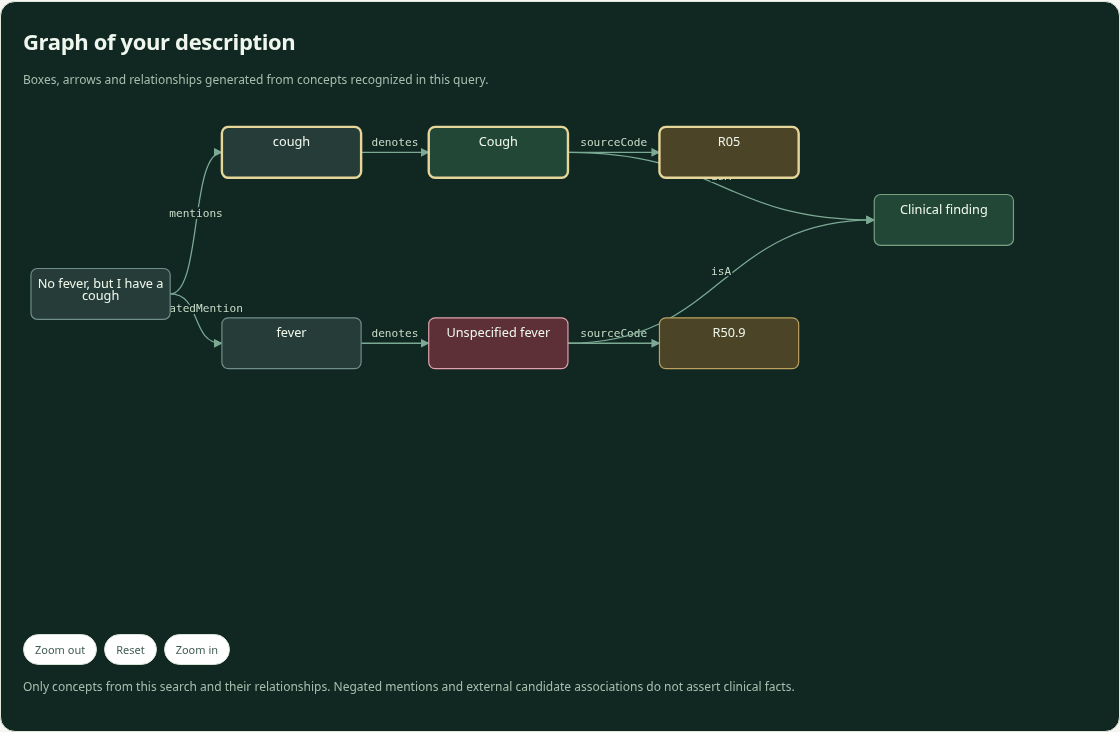
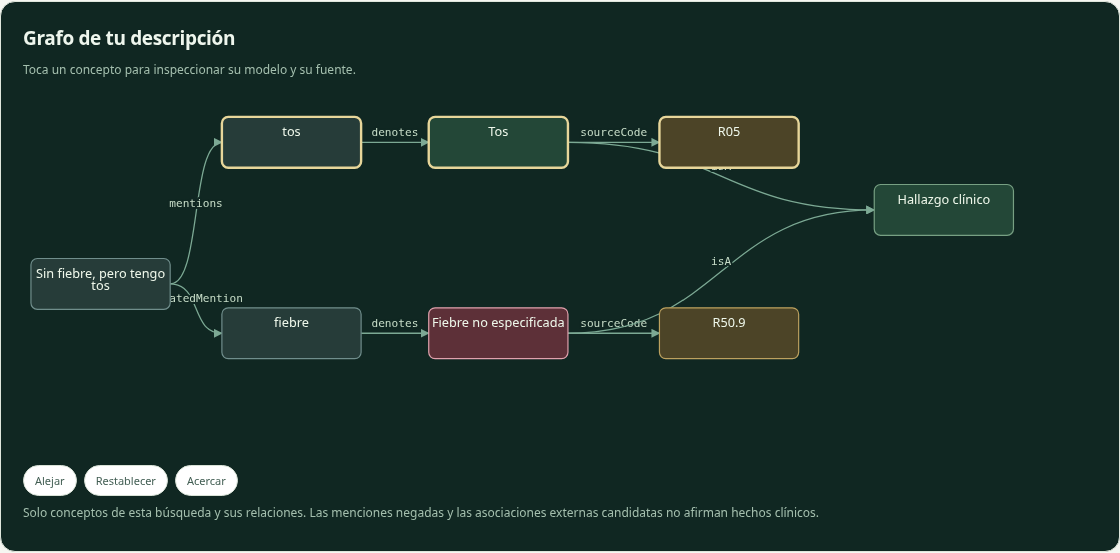
Make portfolio graph-first with an immediate example and compact mobile layout

diff --git a/web/knowledge-graph.ts b/web/knowledge-graph.ts
@@ -6,7 +6,7 @@ let previousQuery='';
 export function renderKnowledgeGraph(concepts:Concept[],lang:Language,selected:string,onSelect:(id:string)=>void,activeIds:string[]=[],query=''){
  const host=document.getElementById('primary-graph')!;host.replaceChildren();
  if(query!==previousQuery){previousQuery=query;zoom=1;}
- const words=lang==='es'?{title:'Grafo de tu descripción',intro:'Cuadros, flechas y relaciones generados con los conceptos reconocidos en esta consulta.',reset:'Restablecer',up:'Acercar',down:'Alejar',note:'Solo conceptos de esta búsqueda y sus relaciones. Las menciones negadas y las asociaciones externas candidatas no afirman hechos clínicos.'}:{title:'Graph of your description',intro:'Boxes, arrows and relationships generated from concepts recognized in this query.',reset:'Reset',up:'Zoom in',down:'Zoom out',note:'Only concepts from this search and their relationships. Negated mentions and external candidate associations do not assert clinical facts.'};
+ const words=lang==='es'?{title:'Grafo de tu descripción',intro:'Toca un concepto para inspeccionar su modelo y su fuente.',reset:'Restablecer',up:'Acercar',down:'Alejar',note:'Solo conceptos de esta búsqueda y sus relaciones. Las menciones negadas y las asociaciones externas candidatas no afirman hechos clínicos.'}:{title:'Graph of your description',intro:'Tap a concept to inspect its model and source.',reset:'Reset',up:'Zoom in',down:'Zoom out',note:'Only concepts from this search and their relationships. Negated mentions and external candidate associations do not assert clinical facts.'};
  const title=document.createElement('h2');title.textContent=words.title;host.append(title);
  const intro=document.createElement('p');intro.className='hint';intro.textContent=words.intro;host.append(intro);
  const active=concepts.filter(c=>activeIds.includes(c.id));
@@ -35,15 +35,29 @@ export function renderKnowledgeGraph(concepts:Concept[],lang:Language,selected:s
    else {const id='value_'+c.id+p.property;add(id,String(p.value),800,y+85+j*75,'attribute',p.property);edge(c.id,id,p.property);}
   }
  });
- const ns='http://www.w3.org/2000/svg';const svg=document.createElementNS(ns,'svg');const height=Math.max(650,...nodes.map(n=>n.y+100));
- svg.setAttribute('viewBox',`0 0 1350 ${height}`);svg.setAttribute('class','knowledge-svg');svg.setAttribute('role','img');svg.setAttribute('aria-label',words.title);
+ const mobile=window.innerWidth<=600;
+ if(mobile){
+  nodes.splice(nodes.findIndex(n=>n.id==='query'),1);
+  for(let i=edges.length-1;i>=0;i--)if(edges[i].a==='query')edges.splice(i,1);
+  nodes.forEach((n,i)=>{n.x=15+(i%2)*230;n.y=20+Math.floor(i/2)*110;});
+  shown.forEach((c,i)=>{
+   const y=20+i*330;
+   const place=(id:string,x:number,dy:number)=>{const n=nodes.find(n=>n.id===id);if(n){n.x=x;n.y=y+dy;}};
+   place('mention_'+c.id,15,0);place(c.id,245,0);place('code_'+c.id,245,105);
+   place(c.classId??c.parent??'',15,210);place('formula_'+c.id,245,210);
+  });
+ }
+ const width=mobile?440:1350;
+ const ns='http://www.w3.org/2000/svg';const svg=document.createElementNS(ns,'svg');const height=Math.max(mobile?200:450,...nodes.map(n=>n.y+100));
+ svg.setAttribute('viewBox',`0 0 ${width} ${height}`);svg.setAttribute('class','knowledge-svg');svg.setAttribute('role','img');svg.setAttribute('aria-label',words.title);
  const defs=document.createElementNS(ns,'defs');const marker=document.createElementNS(ns,'marker');marker.id='kg-arrow';marker.setAttribute('viewBox','0 0 10 10');marker.setAttribute('refX','9');marker.setAttribute('refY','5');marker.setAttribute('markerWidth','7');marker.setAttribute('markerHeight','7');marker.setAttribute('orient','auto-start-reverse');const arrow=document.createElementNS(ns,'path');arrow.setAttribute('d','M 0 0 L 10 5 L 0 10 z');arrow.setAttribute('fill','#7ca994');marker.append(arrow);defs.append(marker);svg.append(defs);
- const group=document.createElementNS(ns,'g');group.setAttribute('transform',`translate(${675*(1-zoom)} ${height/2*(1-zoom)}) scale(${zoom})`);svg.append(group);
+ const group=document.createElementNS(ns,'g');group.setAttribute('transform',`translate(${width/2*(1-zoom)} ${height/2*(1-zoom)}) scale(${zoom})`);svg.append(group);
  for(const e of edges){const a=nodes.find(n=>n.id===e.a),b=nodes.find(n=>n.id===e.b);if(!a||!b)continue;
   const path=document.createElementNS(ns,'path');const x1=a.x+175,y1=a.y+32,x2=b.x,y2=b.y+32;
   const backwards=x2<=x1;const control=backwards?80:Math.max(40,(x2-x1)/2);
-  path.setAttribute('d',`M ${x1} ${y1} C ${x1+control} ${y1}, ${x2-control} ${y2}, ${x2} ${y2}`);path.setAttribute('class','kg-edge'+(e.label==='candidateMatch?'?' candidate-edge':''));path.setAttribute('marker-end','url(#kg-arrow)');group.append(path);
-  const text=document.createElementNS(ns,'text');text.setAttribute('x',String((x1+x2)/2));text.setAttribute('y',String((y1+y2)/2-8));text.setAttribute('class','kg-edge-label');text.textContent=e.label;group.append(text);
+  const vertical=mobile&&Math.abs(a.y-b.y)>65;
+  path.setAttribute('d',vertical?`M ${a.x+87.5} ${a.y+64} C ${a.x+87.5} ${a.y+85}, ${b.x+87.5} ${b.y-20}, ${b.x+87.5} ${b.y}`:`M ${x1} ${y1} C ${x1+control} ${y1}, ${x2-control} ${y2}, ${x2} ${y2}`);path.setAttribute('class','kg-edge'+(e.label==='candidateMatch?'?' candidate-edge':''));path.setAttribute('marker-end','url(#kg-arrow)');group.append(path);
+  const text=document.createElementNS(ns,'text');text.setAttribute('x',String(vertical?(a.x+b.x)/2+87.5:(x1+x2)/2));text.setAttribute('y',String((y1+y2)/2-8));text.setAttribute('class','kg-edge-label');text.textContent=e.label;group.append(text);
  }
  for(const n of nodes){const g=document.createElementNS(ns,'g');g.setAttribute('transform',`translate(${n.x},${n.y})`);g.setAttribute('class','kg-node kind-'+n.kind+(n.target===selected?' kg-active':''));g.setAttribute('role','button');g.setAttribute('tabindex','0');g.setAttribute('aria-label',n.label);
   const rect=document.createElementNS(ns,'rect');rect.setAttribute('width','175');rect.setAttribute('height','64');rect.setAttribute('rx','8');g.append(rect);

diff --git a/web/style.css b/web/style.css
@@ -10,3 +10,7 @@
 .kg-node text{font-size:16px}.kg-edge-label{font-size:14px}
 .workspace{grid-template-columns:1fr}.primary-graph{margin-bottom:0}.knowledge-canvas{max-height:560px;overflow:auto}.knowledge-svg{max-height:none;min-width:1000px;min-height:0}.kg-node.kind-negated rect{fill:#5d3038;stroke:#e0a1ad}.input-panel textarea{min-height:90px}.primary-graph+.results-panel{margin-top:0}
 .interview-panel{margin-top:24px}.interview-panel:empty{display:none}.interview-answers{margin:18px 0;font-size:13px}.interview-answers>div{display:flex;align-items:center;justify-content:space-between;gap:12px;padding:8px 0;border-bottom:1px solid #e0e7dc}.interview-answers button,.interview-panel>button{border:1px solid #ccd9d0;background:#f6faf4;color:#315d4b;border-radius:6px;padding:5px 9px;font-size:12px}
+
+/* Compact, graph-first portfolio presentation. */
+header{padding:14px 24px}.hero{padding:20px 0 14px}.hero h1{font-family:inherit;font-weight:750;font-size:clamp(28px,4vw,46px);max-width:760px}.hero .tags{display:none}.input-panel{padding:18px}.input-panel .section-title{margin-bottom:12px}.input-panel textarea{min-height:64px;height:70px;padding:10px}.input-panel .hint{margin:5px 0}.input-panel label{margin-bottom:5px}.input-panel .primary{margin-top:8px;padding:9px}.examples-label{margin:12px 0 7px}.input-panel details{margin-top:12px;padding-top:9px}.interview-disclosure{margin:20px 0;padding:14px;border:1px solid #dfe6dc;border-radius:10px;background:white}.interview-disclosure>summary{font-size:13px;font-weight:600}.interview-disclosure .interview-panel{border:0;box-shadow:none;padding:14px 0;margin:0}.knowledge-svg{min-width:0;width:100%;height:auto}.knowledge-canvas{max-height:440px}.primary-graph .hint{margin:7px 0}.primary-graph h2{font-size:19px}
+@media(max-width:600px){header{padding:10px 14px}.brand-icon{display:none}main{padding:0 12px}.hero{padding:14px 0 10px}.hero .eyebrow{font-size:9px;letter-spacing:1.4px;margin:0}.hero h1{font-size:27px;line-height:1.1;margin:8px 0}.intro{font-size:12px;line-height:1.45;margin:5px 0}.workspace{gap:12px}.input-panel{padding:12px}.input-panel .section-title{display:none}.input-panel textarea{min-height:52px;height:56px;font-size:16px}.input-panel label{font-size:11px}.input-panel .primary{padding:8px;font-size:12px}.input-panel .hint{font-size:10px}.input-panel .examples-label{font-size:9px;margin:8px 0 5px}.examples button{font-size:10px;padding:6px 9px}.input-panel details{margin-top:8px;padding-top:6px}.primary-graph{padding:12px}.knowledge-canvas{max-height:360px;margin:6px 0}.knowledge-svg{min-width:0;height:auto;min-height:0}.primary-graph .hint{font-size:10px}.primary-graph h2{font-size:17px}.explorer-panel{margin-top:12px}.tags{flex-wrap:wrap}}

diff --git a/web/index.html b/web/index.html
@@ -10,13 +10,13 @@
   <header><a class="brand" href="./"><span class="brand-icon">⌘</span> Knowledge Engineer</a><div class="header-right"><a href="https://github.com/beabustor/knowledge_engineer">GitHub ↗</a><label><span class="sr-only">Language / Idioma</span><select id="language"><option value="es">Español</option><option value="en">English</option></select></label></div></header>
   <main>
     <section class="hero"><p class="eyebrow" data-i18n="eyebrow"></p><h1 data-i18n="title"></h1><p class="intro" data-i18n="intro"></p><div class="tags"><span>TypeScript</span><span>RDF / OWL</span><span>Neo4j</span><span>SQL</span></div></section>
-    <aside class="notice" data-i18n="notice"></aside>
+
     <div class="workspace">
-      <section class="panel input-panel"><div class="section-title"><span class="step">01</span><h2 data-i18n="inputTitle"></h2></div><form id="analyze-form"><label for="description" data-i18n="inputLabel"></label><textarea id="description" rows="5" maxlength="100" aria-describedby="query-counter" required></textarea><p id="query-counter" class="hint"></p><p class="hint" data-i18n="privacy"></p><button class="primary" type="submit" data-i18n="analyze"></button></form><p class="eyebrow examples-label" data-i18n="examplesTitle"></p><div id="examples" class="examples"></div><details><summary data-i18n="methodTitle"></summary><p data-i18n="method"></p></details></section>
+      <section class="panel input-panel"><div class="section-title"><span class="step">01</span><h2 data-i18n="inputTitle"></h2></div><form id="analyze-form"><label for="description" data-i18n="inputLabel"></label><textarea id="description" rows="2" maxlength="100" aria-describedby="query-counter" required></textarea><p id="query-counter" class="hint"></p><p class="hint" data-i18n="privacy"></p><button class="primary" type="submit" data-i18n="analyze"></button></form><p class="eyebrow examples-label" data-i18n="examplesTitle"></p><div id="examples" class="examples"></div><details><summary data-i18n="methodTitle"></summary><p data-i18n="method"></p></details></section>
       <section id="primary-graph" class="panel primary-graph"></section>
 
     </div>
-    <section id="guided-interview" class="panel interview-panel" aria-live="polite"></section>
+    <details class="interview-disclosure"><summary data-i18n="interviewTitle"></summary><section id="guided-interview" class="panel interview-panel" aria-live="polite"></section></details>
     <section id="concept-explorer" class="panel explorer-panel"></section>
     <footer><span data-i18n="footer"></span><a href="https://github.com/beabustor/knowledge_engineer" data-i18n="source"></a></footer>
   </main><script type="module" src="./main.ts"></script>

diff --git a/web/main.ts b/web/main.ts
@@ -6,7 +6,8 @@ type Language='en'|'es';
 const input=document.getElementById('description') as HTMLTextAreaElement;
 const language=document.getElementById('language') as HTMLSelectElement;
 let lang:Language=navigator.language.startsWith('es')?'es':'en';
-let analyzed=false;
+let analyzed=true;
+input.value=messages[lang].texts[0];
 let timer:ReturnType<typeof setTimeout>;
 const LIMIT=100;
 function render(){

diff --git a/web/test_browser.py b/web/test_browser.py
@@ -44,7 +44,7 @@ def main():
         context.tracing.start(screenshots=True,snapshots=True,sources=True)
         try:
             page.goto(url)
-            expect(page.locator('#primary-graph')).to_contain_text('Escribe una descripción')
+            expect(page.locator('#primary-graph')).to_contain_text('denotes')
             assert page.locator('#primary-graph').bounding_box()['y'] > page.locator('#description').bounding_box()['y']
             assert page.locator('.candidate').count()==0
             expect(page.locator('#description')).to_have_attribute('maxlength','100')
@@ -54,6 +54,7 @@ def main():
             expect(page.locator('#primary-graph .kind-negated')).to_have_count(1)
             expect(page.locator('#primary-graph')).to_contain_text('denotes')
             assert not any('.xls' in u for u in requests)
+            open_details(page,'.interview-disclosure')
             page.get_by_role('button',name='Explorar con preguntas',exact=True).click()
             page.locator('[data-answer=no]').click()
             expect(page.locator('#primary-graph')).to_contain_text('answerState')

diff --git a/README.md b/README.md
@@ -10,7 +10,7 @@ knowledge as a graph, RDF, OWL, Cypher and SQL. No diagnosis or automatic clinic
 
 ## Try it in one minute
 
-1. Enter `No fever, but I have a cough` (maximum **100 characters**).
+1. Open the demo: a live example graph is already visible. Edit the sentence (maximum **100 characters**).
 2. Inspect the query-generated graph: mentions, negation, concepts and identifiers.
 3. Select a concept to see its source and technical representations.
 4. Optionally query OLS/CIMA with a separate short term; external links remain
